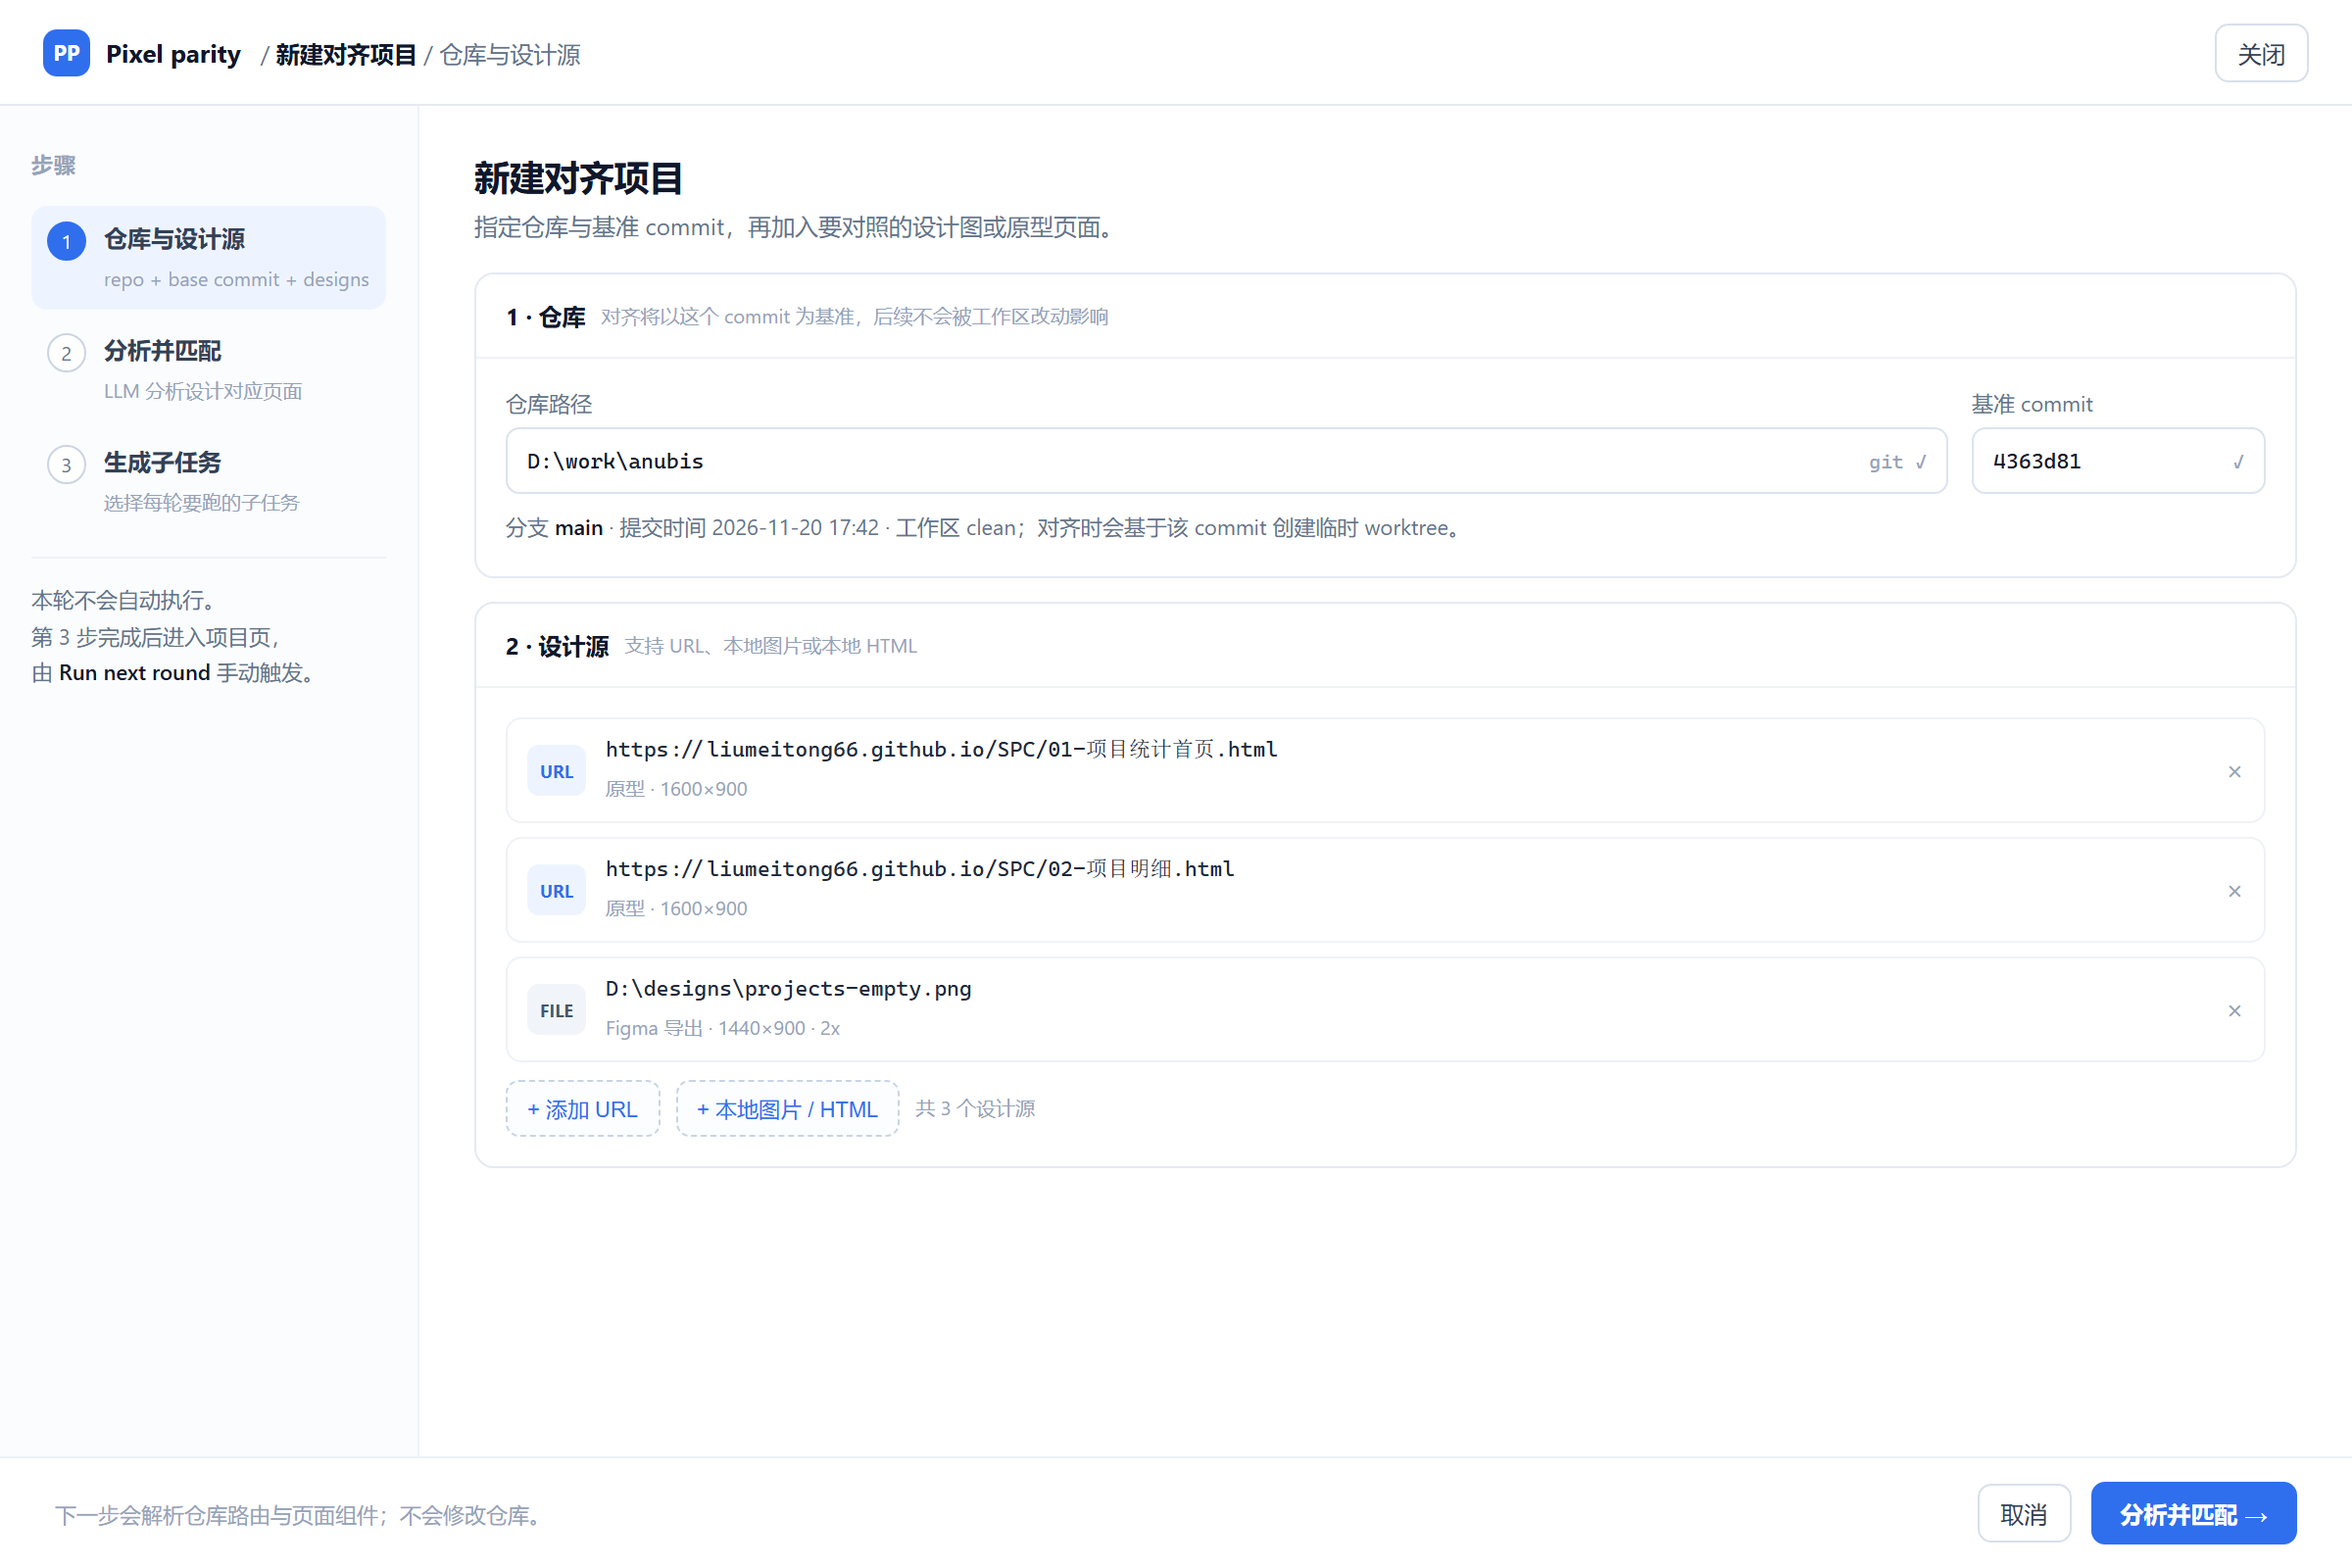
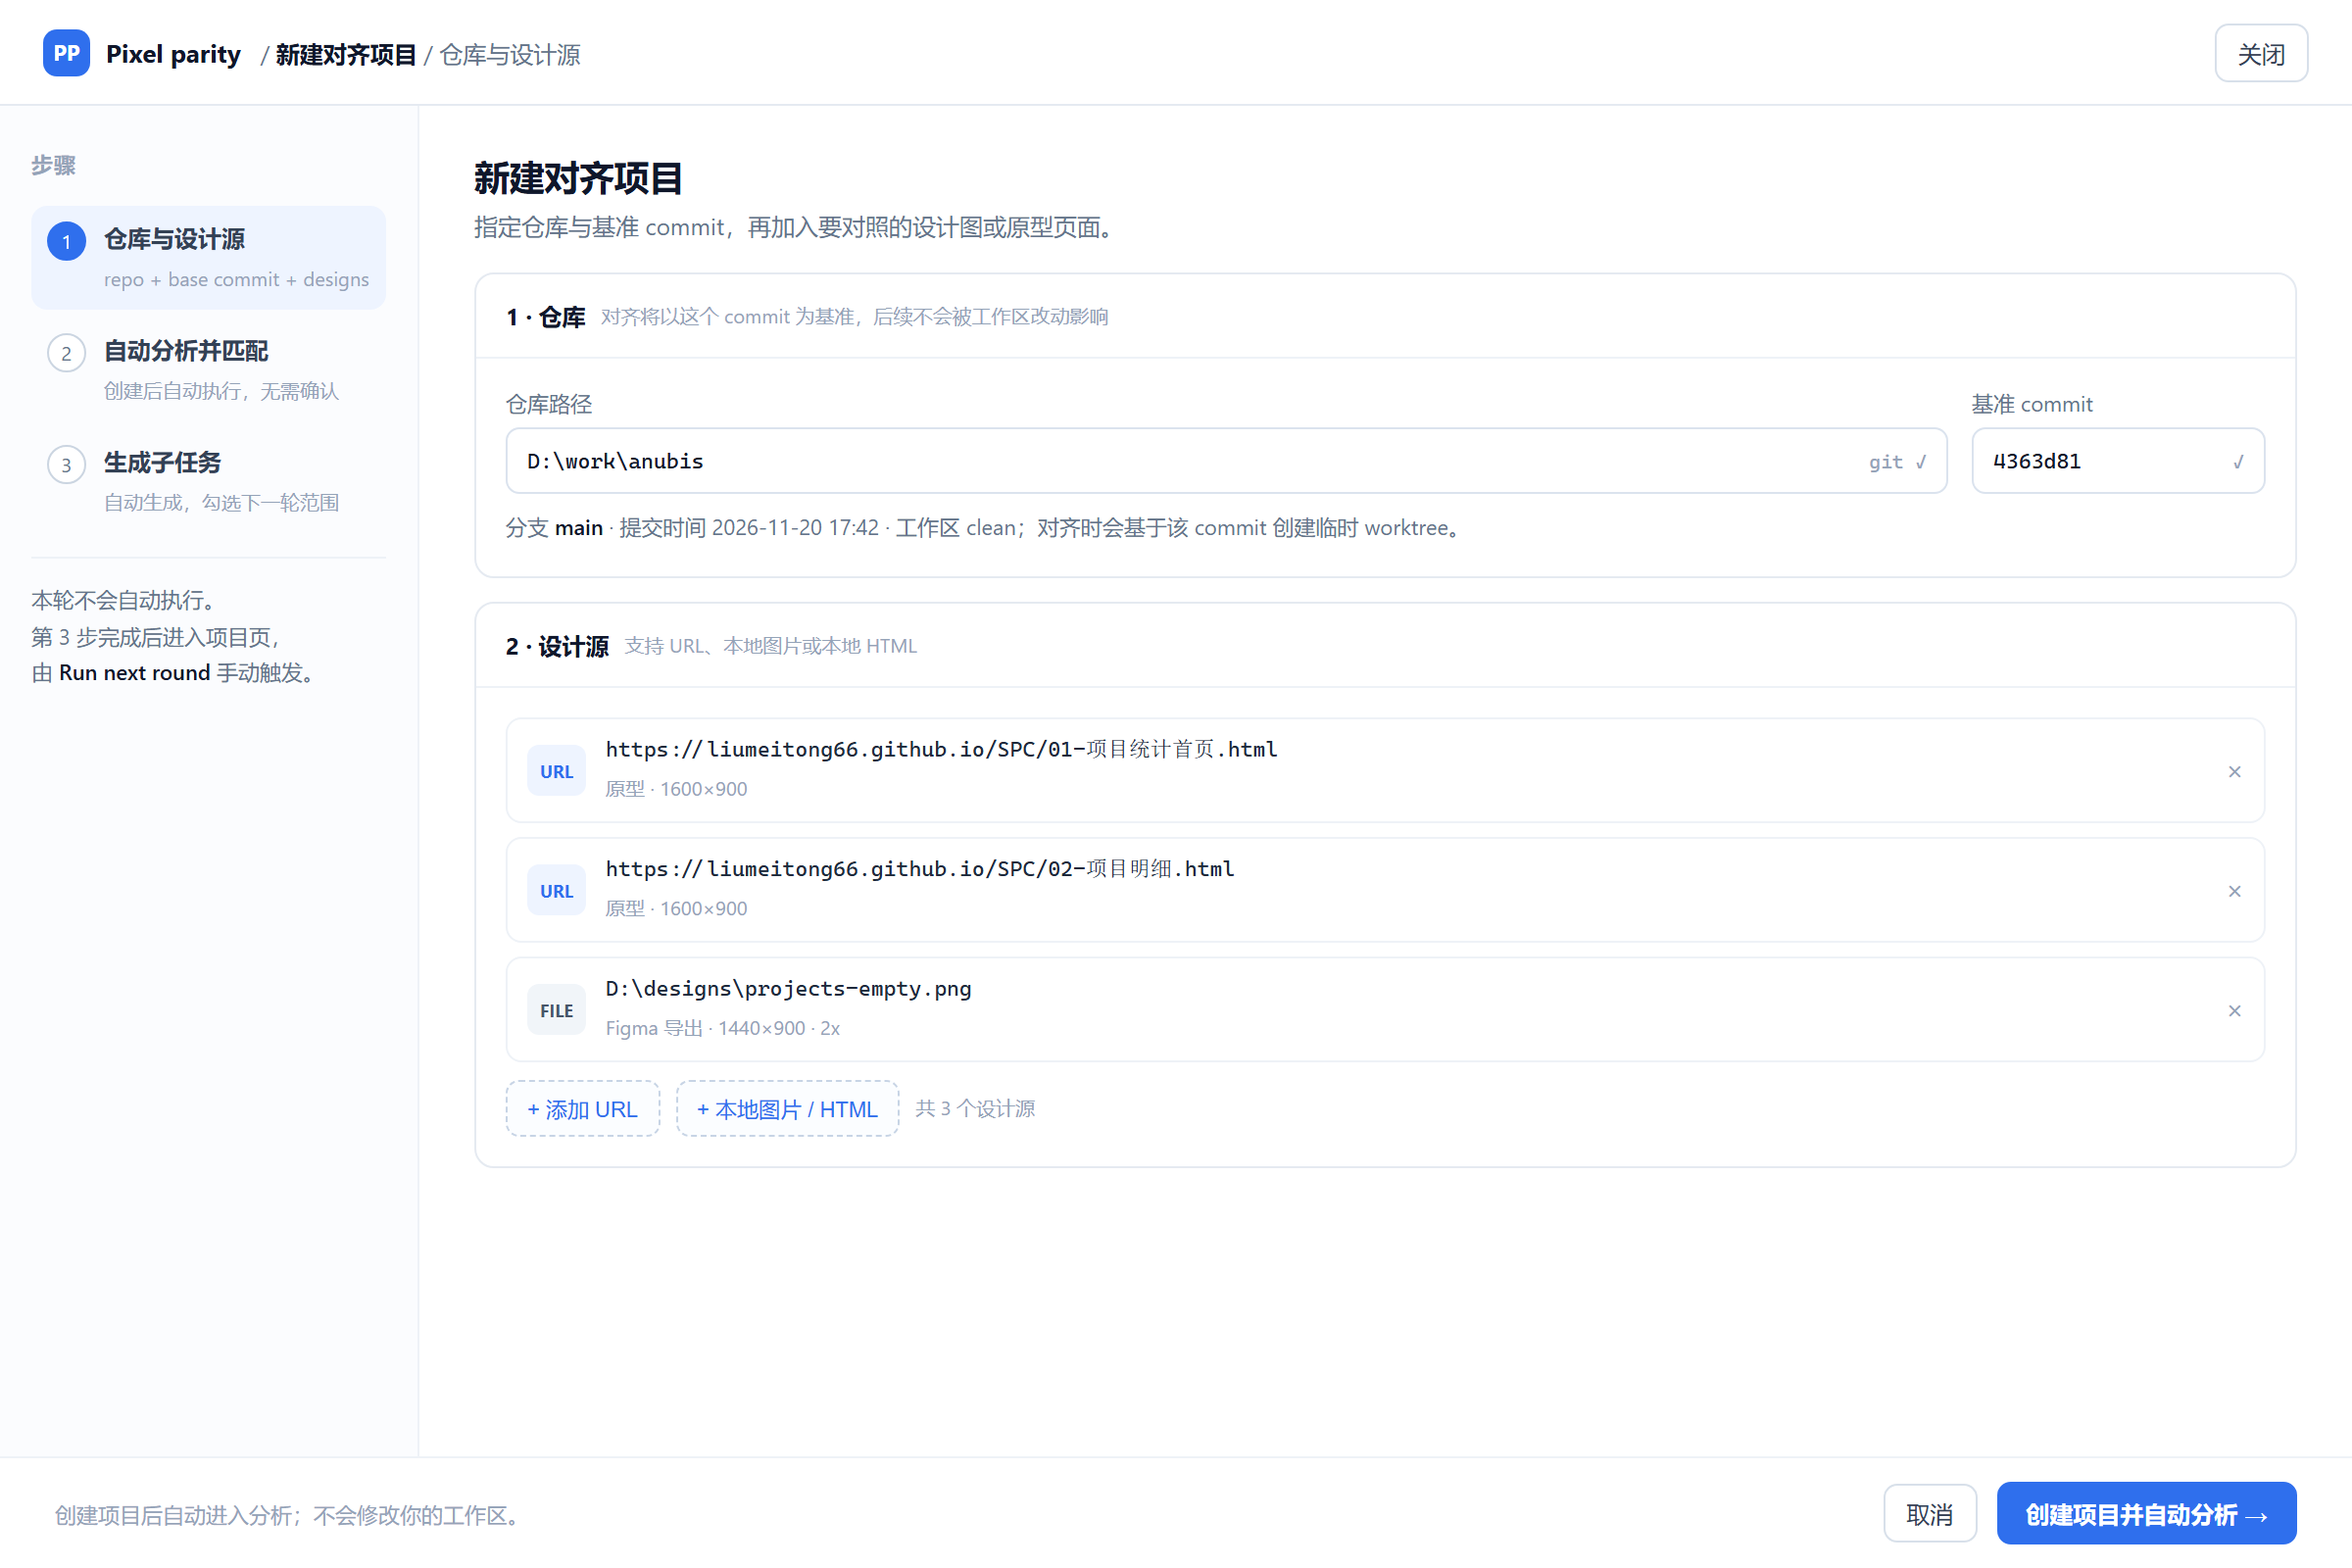
docs: make design-source analysis automatic

diff --git a/docs/design/mockups/02-match.html b/docs/design/mockups/02-match.html
@@ -83,7 +83,7 @@ td { padding: 9px 8px; border-bottom: 1px solid #f4f7fb; vertical-align: middle;
 <div class="shell">
   <div class="topbar">
     <div class="brand"><span class="mark">PP</span> Pixel parity</div>
-    <span class="crumb">/ <b>新建对齐项目</b> / 分析并匹配</span>
+    <span class="crumb">/ <b>新建对齐项目</b> / 自动分析并匹配</span>
     <span class="spacer"></span>
     <button class="ghost">关闭</button>
   </div>
@@ -91,16 +91,16 @@ td { padding: 9px 8px; border-bottom: 1px solid #f4f7fb; vertical-align: middle;
     <aside class="rail">
       <h4>步骤</h4>
       <div class="step done"><span class="dot">✓</span><div><p>仓库与设计源</p><small>repo + base commit + designs</small></div></div>
-      <div class="step active"><span class="dot">2</span><div><p>分析并匹配</p><small>LLM 分析设计对应页面</small></div></div>
-      <div class="step "><span class="dot">3</span><div><p>生成子任务</p><small>选择每轮要跑的子任务</small></div></div>
+      <div class="step active"><span class="dot">2</span><div><p>自动分析并匹配</p><small>创建后自动执行，无需确认</small></div></div>
+      <div class="step "><span class="dot">3</span><div><p>生成子任务</p><small>自动生成，勾选下一轮范围</small></div></div>
       <div class="hr"></div>
       <div class="kv">本轮不会自动执行。<br>第 3 步完成后进入项目页，<br>由 <b>Run next round</b> 手动触发。</div>
     </aside>
     <main class="main">
-<h1 class="h1">分析并匹配</h1>
-<p class="sub">LLM 读取仓库路由、页面组件与设计源结构，给出候选页面；置信度低的需要人工确认。</p>
+<h1 class="h1">自动分析并匹配</h1>
+<p class="sub">创建项目后自动执行。LLM 给出候选页面并直接生成子任务；低置信度只标记“待复核”，不阻塞流程。</p>
 <div class="meta" style="margin-top:12px">
-  <span class="chip blue">已分析 3 个设计源</span><span class="chip">候选页面 6 个</span><span class="chip">待确认 1 个</span>
+  <span class="chip blue">已分析 3 个设计源</span><span class="chip">候选页面 6 个</span><span class="chip">自动接受 2 个</span><span class="chip">待复核 1 个</span>
 </div>
 <div class="card" style="margin-top:12px">
   <div class="card-h"><b style="font-size:12px">设计源 → 前端页面</b><span class="spacer"></span><span class="mut" style="font-size:10px">可下拉修改</span></div>
@@ -109,17 +109,17 @@ td { padding: 9px 8px; border-bottom: 1px solid #f4f7fb; vertical-align: middle;
       <tr><th style="width:34%">设计源</th><th>候选页面</th><th style="width:20%">组件 / 入口</th><th style="width:12%">置信度</th><th style="width:10%">状态</th></tr>
       <tr><td><b>01-项目统计首页.html</b><div class="mut">原型 URL</div></td><td><span class="route">/projects</span><div class="mut">ProjectStatsDesign.vue</div></td><td class="mut">apps/hub/src/views</td><td><span class="pill ok">96%</span></td><td><span class="pill ok">已匹配</span></td></tr>
       <tr><td><b>02-项目明细.html</b><div class="mut">原型 URL</div></td><td><span class="route">/projects/:id</span><div class="mut">ProjectDetail.vue</div></td><td class="mut">apps/hub/src/views</td><td><span class="pill ok">88%</span></td><td><span class="pill ok">已匹配</span></td></tr>
-      <tr><td><b>projects-empty.png</b><div class="mut">Figma 导出</div></td><td><span class="route">/projects?state=empty</span><div class="mut">ProjectStatsDesign.vue · 空态</div></td><td class="mut">同页状态</td><td><span class="pill warn">64%</span></td><td><span class="pill warn">待确认</span></td></tr>
+      <tr><td><b>projects-empty.png</b><div class="mut">Figma 导出</div></td><td><span class="route">/projects?state=empty</span><div class="mut">ProjectStatsDesign.vue · 空态</div></td><td class="mut">同页状态</td><td><span class="pill warn">64%</span></td><td><span class="pill warn">待复核</span></td></tr>
     </table>
   </div>
 </div>
 <div class="card" style="margin-top:12px">
   <div class="card-b" style="display:flex;gap:16px;align-items:center">
     <div class="thumb"></div>
-    <div style="flex:1"><b style="font-size:12px">projects-empty.png → /projects?state=empty</b><div class="kv">LLM 依据：路由表存在 /projects；页面组件包含 empty 分支；设计图尺寸与 1600×900 viewport 匹配。可改为其他页面或标记为“不匹配”。</div></div>
-    <button class="ghost">改选页面</button><button class="ghost">忽略</button>
+    <div style="flex:1"><b style="font-size:12px">projects-empty.png → /projects?state=empty</b><div class="kv">LLM 依据：路由表存在 /projects；页面组件包含 empty 分支；设计图尺寸与 1600×900 viewport 匹配。已自动生成子任务，默认不勾选；可在后续子任务页调整，不需要在这里确认。</div></div>
+    <button class="ghost">可选：改选页面</button>
   </div>
 </div></main>
   </div>
-  <div class="footer"><span class="note">LLM 只做建议；低置信度匹配必须人工确认后才能继续。</span><span class="spacer"></span><button class="ghost">重新分析</button><button class="primary">确认匹配 →</button></div>
+  <div class="footer"><span class="note">匹配自动完成；待复核条目不影响后续步骤，可随时改选。</span><span class="spacer"></span><button class="ghost">重新分析</button><button class="primary">查看生成的子任务 →</button></div>
 </div></body></html>

diff --git a/docs/design/mockups/03-subtasks.html b/docs/design/mockups/03-subtasks.html
@@ -91,8 +91,8 @@ td { padding: 9px 8px; border-bottom: 1px solid #f4f7fb; vertical-align: middle;
     <aside class="rail">
       <h4>步骤</h4>
       <div class="step done"><span class="dot">✓</span><div><p>仓库与设计源</p><small>repo + base commit + designs</small></div></div>
-      <div class="step done"><span class="dot">✓</span><div><p>分析并匹配</p><small>LLM 分析设计对应页面</small></div></div>
-      <div class="step active"><span class="dot">3</span><div><p>生成子任务</p><small>选择每轮要跑的子任务</small></div></div>
+      <div class="step done"><span class="dot">✓</span><div><p>自动分析并匹配</p><small>创建后自动执行，无需确认</small></div></div>
+      <div class="step active"><span class="dot">3</span><div><p>生成子任务</p><small>自动生成，勾选下一轮范围</small></div></div>
       <div class="hr"></div>
       <div class="kv">本轮不会自动执行。<br>第 3 步完成后进入项目页，<br>由 <b>Run next round</b> 手动触发。</div>
     </aside>
@@ -117,5 +117,5 @@ td { padding: 9px 8px; border-bottom: 1px solid #f4f7fb; vertical-align: middle;
   </div>
 </div></main>
   </div>
-  <div class="footer"><span class="note">创建后进入项目页；默认不执行任何对齐。</span><span class="spacer"></span><button class="ghost">上一步</button><button class="primary">创建项目并生成计划</button></div>
+  <div class="footer"><span class="note">子任务已自动生成；勾选只决定下一轮执行范围。</span><span class="spacer"></span><button class="ghost">上一步</button><button class="primary">进入项目页</button></div>
 </div></body></html>

diff --git a/docs/design/mockups/01-setup.html b/docs/design/mockups/01-setup.html
@@ -91,8 +91,8 @@ td { padding: 9px 8px; border-bottom: 1px solid #f4f7fb; vertical-align: middle;
     <aside class="rail">
       <h4>步骤</h4>
       <div class="step active"><span class="dot">1</span><div><p>仓库与设计源</p><small>repo + base commit + designs</small></div></div>
-      <div class="step "><span class="dot">2</span><div><p>分析并匹配</p><small>LLM 分析设计对应页面</small></div></div>
-      <div class="step "><span class="dot">3</span><div><p>生成子任务</p><small>选择每轮要跑的子任务</small></div></div>
+      <div class="step "><span class="dot">2</span><div><p>自动分析并匹配</p><small>创建后自动执行，无需确认</small></div></div>
+      <div class="step "><span class="dot">3</span><div><p>生成子任务</p><small>自动生成，勾选下一轮范围</small></div></div>
       <div class="hr"></div>
       <div class="kv">本轮不会自动执行。<br>第 3 步完成后进入项目页，<br>由 <b>Run next round</b> 手动触发。</div>
     </aside>
@@ -119,5 +119,5 @@ td { padding: 9px 8px; border-bottom: 1px solid #f4f7fb; vertical-align: middle;
   </div>
 </div></main>
   </div>
-  <div class="footer"><span class="note">下一步会解析仓库路由与页面组件；不会修改仓库。</span><span class="spacer"></span><button class="ghost">取消</button><button class="primary">分析并匹配 →</button></div>
+  <div class="footer"><span class="note">创建项目后自动进入分析；不会修改你的工作区。</span><span class="spacer"></span><button class="ghost">取消</button><button class="primary">创建项目并自动分析 →</button></div>
 </div></body></html>
